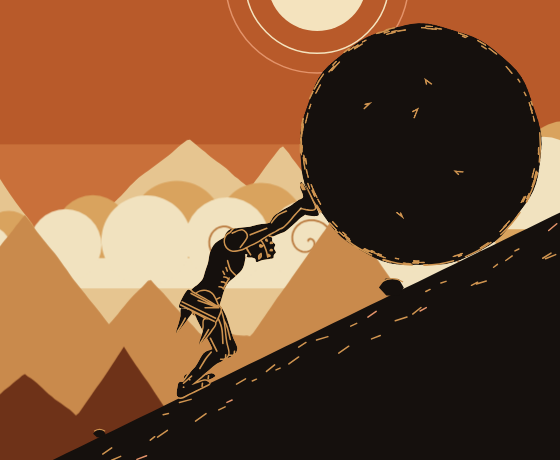
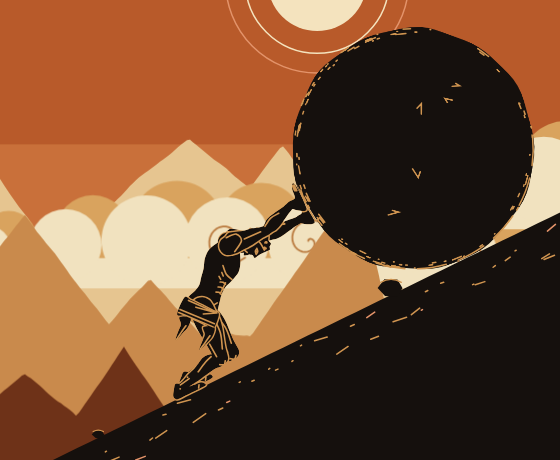
Fix U14 (partly): uneven speckle; Resolution and retaken screenshots
Rim and slope flecks are now dots and strokes of uneven length rather
than regular dashes. Adds the Resolution section to
docs/REVIEW_ROUND3_ART.md and retakes p=0.5 desktop and phone, the
12-frame push sheet, the summit reveal, the next-climb sheet and
reduced motion in docs/screenshots/round3-art/.

Claude-Session: https://claude.ai/code/session_01G9uuWeZfSbAx9jT1x1TUse

diff --git a/src/focus/scenes/trail.ts b/src/focus/scenes/trail.ts
@@ -80,7 +80,7 @@ export function detailsIn(sA: number, sB: number, startH: number): Detail[] {
   for (let i = Math.floor((startH + sA) * 14); i <= Math.ceil((startH + sB) * 14); i++) {
     const s = i / 14 - startH + (h(i) - 0.5) / 14;
     const r = h(i + 0.5);
-    out.push({ kind: 'fleck', s, depth: 0.02 + Math.pow(h(i + 0.3), 1.2) * 0.16, size: 0.02 + h(i + 0.7) * 0.04, salmon: r < 1 / 6, seed: i });
+    out.push({ kind: 'fleck', s, depth: 0.02 + Math.pow(h(i + 0.3), 1.2) * 0.16, size: h(i + 0.9) < 0.3 ? 0.006 : 0.012 + Math.pow(h(i + 0.7), 1.5) * 0.06, salmon: r < 1 / 6, seed: i });
   }
   // stones every ~1.4 H, tufts every ~3 H, cracks every ~4.5 H (cells with jitter)
   const cells = (every: number, kind: Detail['kind'], salt: number) => {

diff --git a/src/focus/scenes/artDraw.ts b/src/focus/scenes/artDraw.ts
@@ -180,8 +180,8 @@ export function buildBoulderSprite(Rpx: number, scale: number, seed = 31, lw = 1
     // denser on the lower half (the half that faces the slope in the sprite's rest frame)
     let a = r() * Math.PI * 2;
     if (Math.sin(a) < 0 && r() < 0.4) a = -a;
-    const inset = 1 + r() * 5;
-    const len = 3 + r() * 7;
+    const inset = 1 + r() * 6;
+    const len = r() < 0.25 ? 0.6 : 1.5 + Math.pow(r(), 1.6) * 9; // a speckle: dots and strokes of uneven length (U14)
     const rr = Rpx - inset;
     const t = { x: -Math.sin(a), y: Math.cos(a) };
     const p = { x: Math.cos(a) * rr, y: Math.sin(a) * rr };

diff --git a/docs/REVIEW_ROUND3_ART.md b/docs/REVIEW_ROUND3_ART.md
@@ -195,3 +195,32 @@ The HUD strip is readable and calm (cream Plex on black, the Greek key filling c
 - The gait is a big step up: keyed, seeded, foot-locked and well tested (14 harness tests).
 - Performance is comfortably inside budget, and the first frame is down from about 250 ms to under 40 ms.
 - The old light model, textures and roll-back are deleted as planned.
+
+## Resolution
+
+Coder, fix round on `round3`. Every major and minor finding (U1–U13) is fixed. U14 is mostly fixed, and U15 is left for the planner. Each finding was checked in the real app (Playwright) or on the real trail before it was fixed. 314 tests pass, and `tsc` and `vite build` are clean.
+
+| # | Outcome | Commit |
+|---|---|---|
+| U1 | **Fixed.** The standing pose and every frame of the step-through lower the pelvis under the leg-reach ceiling, so each leg ends exactly at its foot (also through overtime). Test: leg end = ankle ≤ 1 px across the step-through and for hold positions around the ledge. | d09a422 |
+| U12 | **Fixed.** The far hand stays flat on the stone while the weight comes off it, then releases and drops; it spends ≤ 0.18 s near the stone (test). | d09a422 |
+| U2 | **Fixed. Decision: +5 from the summit keeps the summit until the extension ends.** The mountain state is untouched and the scene stays in the summit tableau (dusk). Pauses, saves and clock-outs add no distance, and the extension ending doesn't count the summit twice. The next block starts in the col beyond this summit, so no other crest is ever shown during an extension. Tests: in the reducer, the drawn climb is identical across 8 min of overtime and the +5; on the engine (stub canvas), the framing and position stay fixed and he stays standing through the extension and after it ends. | c1c541c |
+| U3, U11 | **Fixed (clean cut).** The next climb is a single-frame cut to the col: the climber is already braced behind the stone, the camera is on its tracking frame, and every cache is rebuilt for that frame. There's no pan through empty sky, no fade and no double exposure. Engine test: every drawn frame of the transition has the figure fully drawn and on screen, zoom 1, and the slope at 20–80 % of the frame. Pixel check in the app: the largest single colour in the transition frames is the slope black (46 %, the same as any climbing frame); no flat range fill dominates. The §5.4 forward roll is dropped in favour of the cut. | f7e2d2a |
+| U8 | **Fixed.** At each hour of an open-ended block the climb holds on its summit for 8 s while he heaves onto the ledge and stands, then cuts to the col. Domain and engine tests. | f7e2d2a |
+| U5 | **Fixed.** Reduced-motion stills count as frames and build every strip and cloud at once. Engine test: 3 ranges and ≥ 3 clouds drawn. | f7e2d2a |
+| U4 | **Fixed.** Ahead of the stone, each range column is limited against the *real* slope skyline with a soft minimum. Peaks keep their shape and sink behind the slope, with no shelves and no wedge, including at the col start. Strips rebuild when the stone or the skyline moves. Test: the soft cap is strictly increasing and never exceeds the limit. | 6dfb6f3 |
+| U10 + motion note | **Fixed.** The torso lean rises to 16° at 22° and the head goes back to 70°/100°. The stride is longer (+0.08 / −0.22 H, rear foot on the ball at 30°) and the rear leg is straight at 170°. The far shoulder and hand are offset so both arms read. Feet stay locked and hands stay on the stone: all harness checks hold. The pelvis is 0.36 H, because leg reach caps it with a longer stride. | cb762d4 |
+| U6 | **Fixed.** In the summit framing the ranges and cloud sea sink below the ledge, and the ledge moves left so the cairn and the back side clear the panel. | de4934b |
+| U7 | **Fixed.** In reduced motion the readout and climb strip stay visible (60 %) when the chrome hides. | de4934b |
+| U9 | **Fixed.** Paused greys the horizon band. | de4934b |
+| U13 | **Fixed.** Returning to a tab far behind re-plants the climber under a cross-fade. | de4934b |
+| U14 | **Partly fixed.** The rim and slope flecks are now uneven: dots and strokes of varied length. | this commit |
+| U15 | **Not changed.** The anchor follows the spec table; the planner should confirm. | — |
+
+Performance (headless, 1440×900 @2): about 4.4 ms on average while climbing. In the last ~20 s, when the end clamp engages, the range strips rebuild more often and the average rises to about 6.4 ms, still 28–30 fps.
+
+Retaken screenshots in `docs/screenshots/round3-art/`:
+- `focus-p0.5.png`, `phone-p0.5.png`, `reduced-p0.5.png`;
+- `push-01…12.png` and `push-sheet.png`;
+- `summit-reveal.png`;
+- `next-climb-sheet.png` (summit, then 5 frames after Keep going) and `next-col-start.png`.
